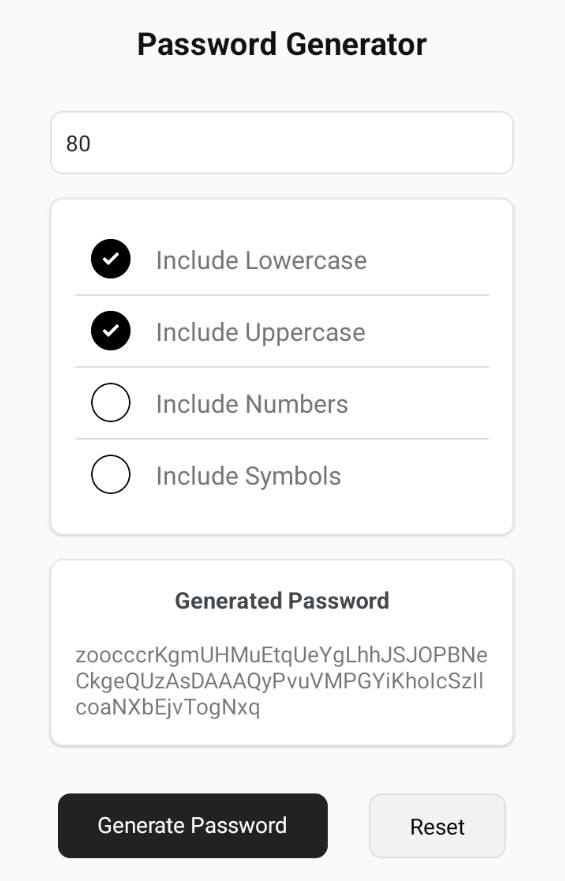
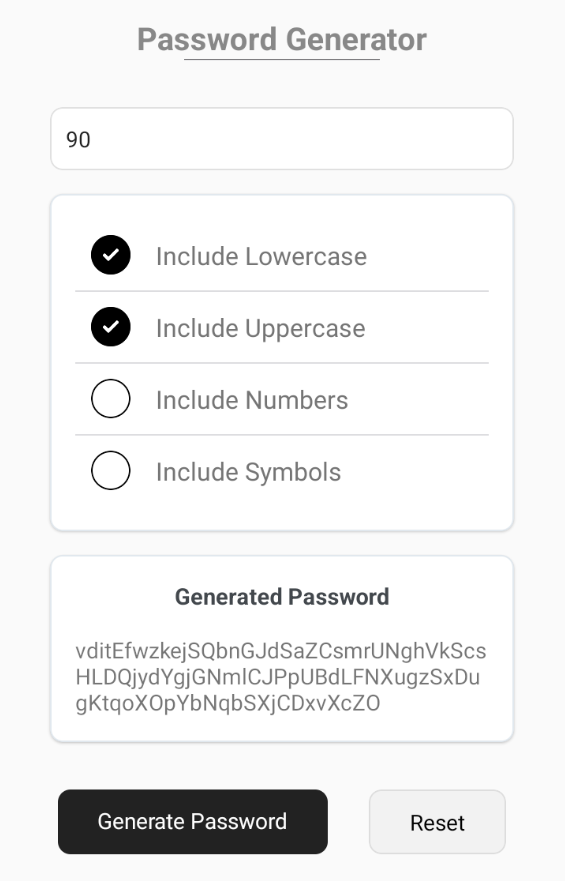
Design updated

diff --git a/src/App.tsx b/src/App.tsx
@@ -124,6 +124,7 @@ function App(): React.JSX.Element {
           <>
             <View>
               <Text style={styles.heading}>Password Generator</Text>
+              <Divider style={{marginHorizontal: 100, backgroundColor: '#000'}} />
             </View>
             <View style={styles.inputContainer}>
               <TextInput
@@ -219,7 +220,7 @@ const styles = StyleSheet.create({
   heading: {
     fontSize: 20,
     fontWeight: 'bold',
-    color: '#111',
+    color: '#888',
     textAlign: 'center',
   },
   darkText: {
